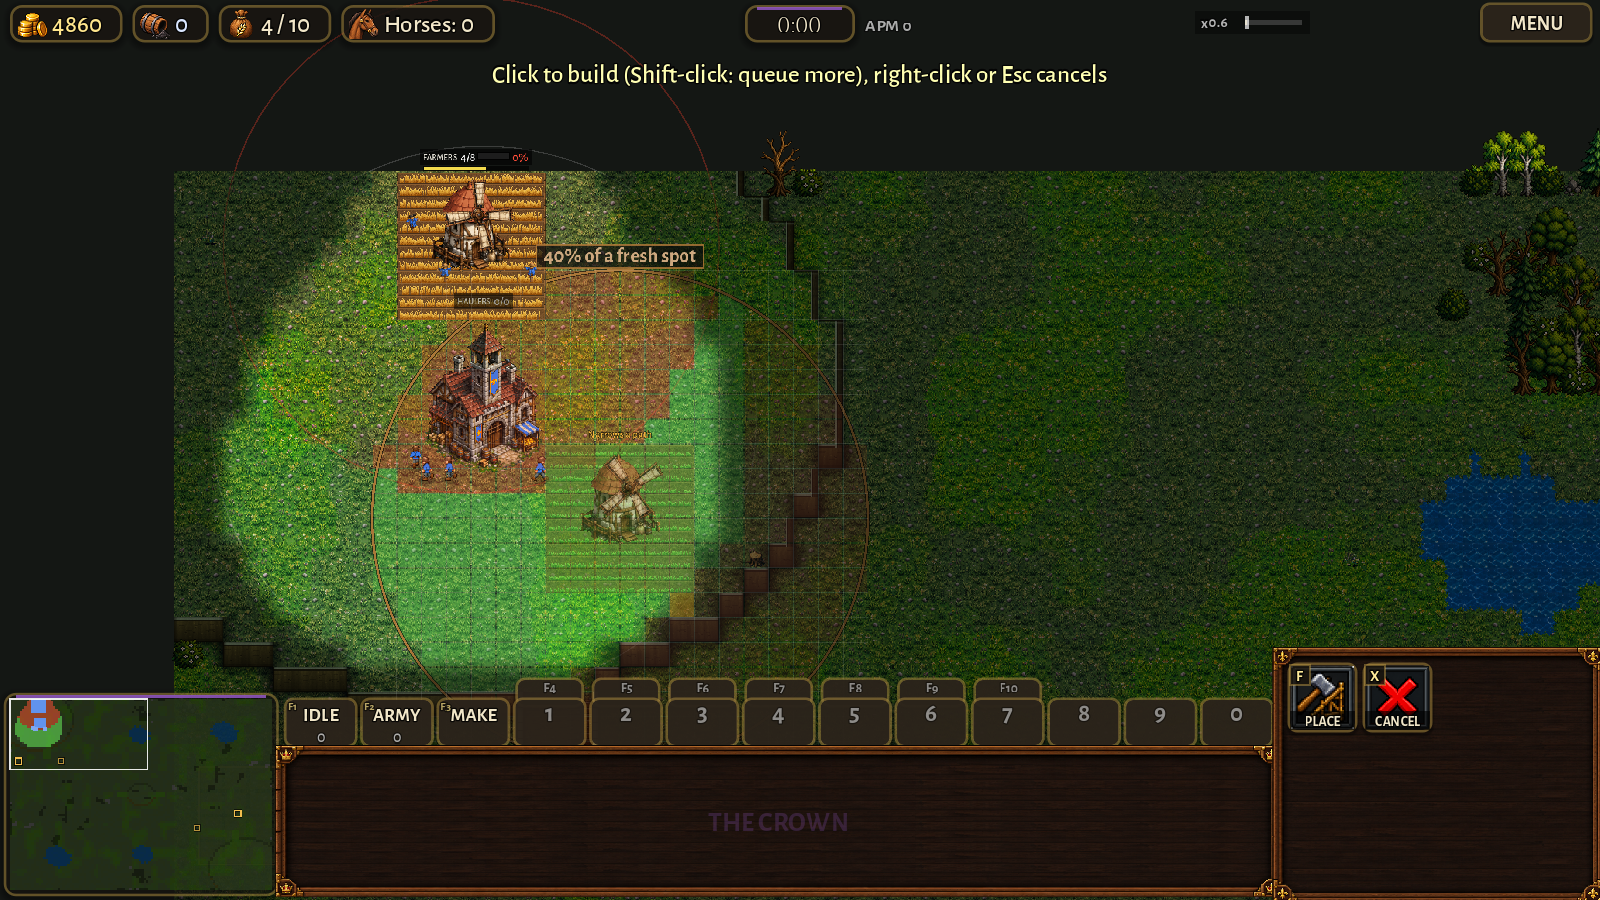
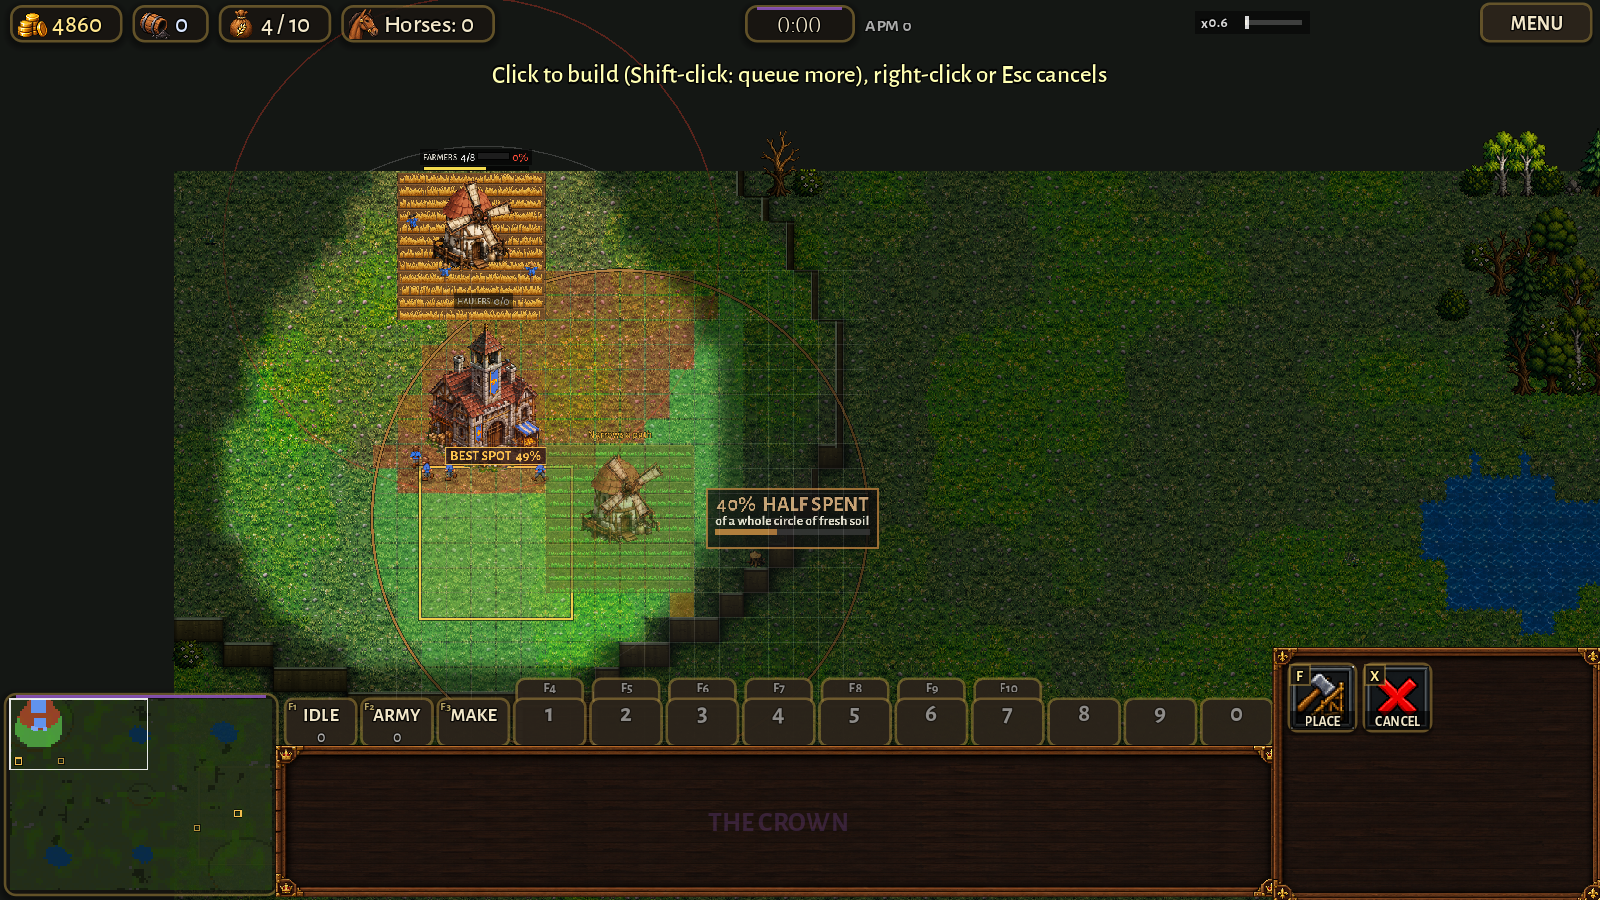
0.35.4: ground system placing made clearer: the label beside the building with a verdict word and a bar, the BEST SPOT outlined in gold with an arrow, an expand hint, no-soil tiles dark
Claude-Session: https://claude.ai/code/session_01NtmEZhP1uA8k4DLQ7BYfMz

diff --git a/docs/ground_system.md b/docs/ground_system.md
@@ -188,3 +188,15 @@ ballista.gd:328 `has_tag` on a target that died mid-splash, not touched by this 
 - A game batch: `python3 tools/study/qa_matches.py run OUT --data DATA --only ground --extra ground:1` (ON) and the same
   without `--extra` (OFF), then `python3 tools/study/ground_games.py OFF_DATA ON_DATA`.
 - Pictures: `xvfb-run -a godot --rendering-driver opengl3 --resolution 1600x900 --fixed-fps 30 --script res://tools/shot_ground_system.gd -- out:/abs/dir`.
+
+## Placing, made clearer (owner 2026-11-13 18:33: "make it as clear and intuitive as possible"; 0.35.4)
+
+- The label sits BESIDE the building being placed (right, or left near the screen's edge), never over a far edge of the
+  circle: "49%  GOOD SPOT", "of a whole circle of fresh soil" (or brass) and a bar filled to the share, in the spot's colour.
+- Words for the share (GroundView.verdict): FRESH SPOT 70%+, GOOD SPOT 45%+, HALF SPENT 25%+, POOR SPOT 8%+, SPENT
+  (a circle never lies wholly on soil next to its hall: a fresh hall's best Farm spot holds about 70-80%).
+- BEST SPOT: the best legal spot in the viewer's districts (explored ground) is outlined in gold with "BEST SPOT 49%"
+  and a dotted gold arrow from the ghost, when it holds at least 5 points more than where the ghost is.
+- A third line in gold: "the best spot left by your halls" when the ghost is on it; "ground running low: expand to a new
+  hall" when even the best spot holds under 35%.
+- Tiles of the circle with no ground of its kind (outside every district) are dark, not red: red means spent.

diff --git a/README.md b/README.md
@@ -2,7 +2,7 @@
 
 *(a working title: the game was called Holdfast until October 2026, but that name belongs to another game; the web address, the app file and the repository keep the old name for now so links and installs keep working)*
 
-**Play in your browser (version 0.35.3): https://holdfastrts.github.io/Holdfast/**
+**Play in your browser (version 0.35.4): https://holdfastrts.github.io/Holdfast/**
 
 **Windows program: https://holdfastrts.github.io/Holdfast/Holdfast_windows.zip** (rebuilt on every push; unzip it and run Holdfast.exe; if Windows warns "Windows protected your PC", click More info, then Run anyway)
 
